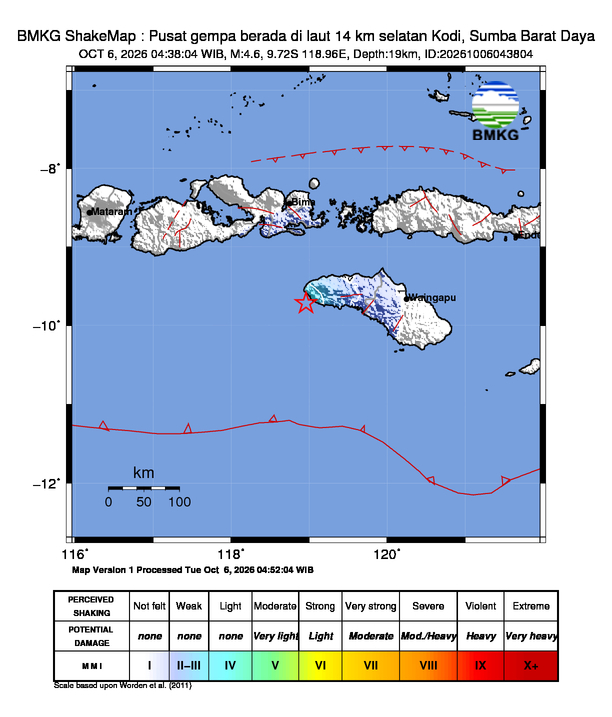
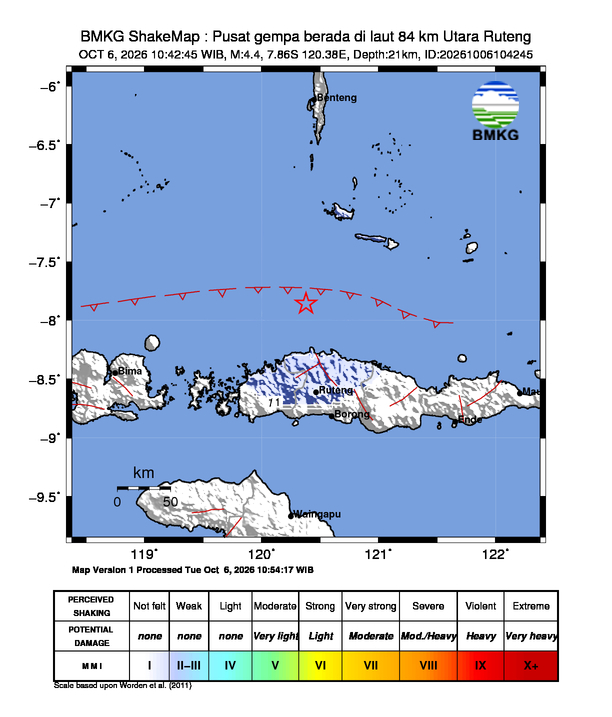
docs: update info gempa & README - 2026-10-06 17:10:47 WIB [skip ci]

diff --git a/README.md b/README.md
@@ -2,7 +2,7 @@
 
 > Monitor gempa bumi real-time untuk wilayah Indonesia. Data diambil otomatis dari **BMKG** setiap 5 menit oleh GitHub Actions, lalu ditampilkan lengkap di README ini beserta peta guncangannya (shakemap).
 
-🕒 **Update otomatis terakhir:** Selasa, 06 Oktober 2026 pukul 06.22.10
+🕒 **Update otomatis terakhir:** Selasa, 06 Oktober 2026 pukul 17.10.46
 
 ---
 
@@ -10,13 +10,13 @@
 
 | Parameter | Detail |
 | --- | --- |
-| 📊 **Magnitudo** | M 4.6 |
-| 📍 **Wilayah** | Pusat gempa berada di laut 14 km selatan Kodi, Sumba Barat Daya |
-| 🕒 **Waktu** | 06 Okt 2026, 04:38:04 WIB |
-| 🧭 **Koordinat** | -9.72,118.96 |
-| 📏 **Kedalaman** | 19 km |
+| 📊 **Magnitudo** | M 4.4 |
+| 📍 **Wilayah** | Pusat gempa berada di laut 84 km Utara Ruteng |
+| 🕒 **Waktu** | 06 Okt 2026, 10:42:45 WIB |
+| 🧭 **Koordinat** | -7.86,120.38 |
+| 📏 **Kedalaman** | 21 km |
 | 🌊 **Potensi** | Gempa ini dirasakan untuk diteruskan pada masyarakat |
-| 📡 **Dirasakan** | II Kab. Sumba Barat Daya |
+| 📡 **Dirasakan** | II - III Kab. Manggarai |
 | 🔗 **Sumber** | [BMKG — InfoGempa Realtime](https://www.bmkg.go.id/gempabumi) |
 
 ### 🗺 Peta Guncangan (Shakemap)
@@ -29,6 +29,7 @@
 
 | Waktu | Magnitudo | Wilayah | Kedalaman | Potensi |
 | --- | --- | --- | --- | --- |
+| 06 Okt 2026 10:42:45 WIB | **M 4.4** | Pusat gempa berada di laut 84 km Utara Ruteng | 21 km | Gempa ini dirasakan untuk diteruskan pada masyarakat |
 | 06 Okt 2026 04:38:04 WIB | **M 4.6** | Pusat gempa berada di laut 14 km selatan Kodi, Sumba Barat Daya | 19 km | Gempa ini dirasakan untuk diteruskan pada masyarakat |
 | 05 Okt 2026 20:06:22 WIB | **M 3.8** | Pusat gempa berada di darat 42 km timur laut Ruteng, Manggarai | 8 km | Gempa ini dirasakan untuk diteruskan pada masyarakat |
 | 05 Okt 2026 09:16:32 WIB | **M 4.6** | Pusat gempa berada di laut 112 km selatan Lumajang | 4 km | Gempa ini dirasakan untuk diteruskan pada masyarakat |
@@ -43,7 +44,6 @@
 | 01 Okt 2026 21:20:00 WIB | **M 5.1** | Pusat gempa berada di laut 111 km tenggara Selayar | 10 km | Gempa ini dirasakan untuk diteruskan pada masyarakat |
 | 01 Okt 2026 18:51:40 WIB | **M 3.6** | Pusat gempa berada di laut 26 km barat laut Gorontalo Utara | 47 km | Gempa ini dirasakan untuk diteruskan pada masyarakat |
 | 01 Okt 2026 07:43:06 WIB | **M 3.1** | Pusat gempa berada di Laut 31 km Barat Kab. Kupang | 6 km | Gempa ini dirasakan untuk diteruskan pada masyarakat |
-| 30 Sep 2026 17:58:51 WIB | **M 4.7** | Pusat gempa berada di laut 26 km Barat Kab. Kupang | 10 km | Gempa ini dirasakan untuk diteruskan pada masyarakat |
 
 ---
 
